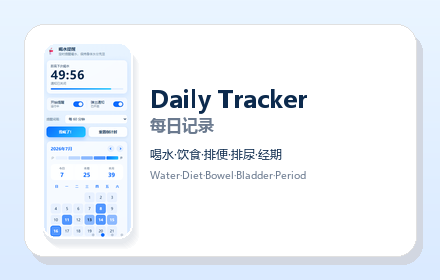
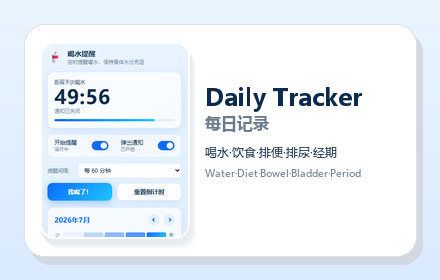
fix: render store screenshots from real captured popups; readable promo tile

Changed region(s): [[0.0886, 0.1714, 0.8273, 0.8571]]

diff --git a/scripts/generate-store-screenshots.py b/scripts/generate-store-screenshots.py
@@ -219,15 +219,19 @@ def card_bg(draw, x, y, w, h, theme, radius=14, border=True, shadow=True):
         )
 
 
-def paste_real_popup(img, x, y, page, lang, scale=0.8, radius=20):
+def paste_real_popup(img, x, y, page, lang, scale=0.8, radius=20, crop_h=None):
     """Paste a REAL captured popup screenshot (scripts/captured/popup-{page}-{lang}.png)
-    onto the canvas at (x, y), scaled, with a soft shadow and rounded corners."""
+    onto the canvas at (x, y), scaled, with a soft shadow and rounded corners.
+    crop_h: if set, only the top crop_h pixels of the source are used (keeps small
+    promo tiles readable by showing the key header/countdown region at larger scale)."""
     src = CAPTURED / f"popup-{page}-{lang}.png"
     if not src.exists():
         raise FileNotFoundError(f"Missing captured popup: {src}")
     popup = Image.open(src).convert("RGB")
-    w = round(REAL_W * scale)
-    h = round(REAL_H * scale)
+    if crop_h:
+        popup = popup.crop((0, 0, REAL_W, min(crop_h, REAL_H)))
+    w = round(popup.width * scale)
+    h = round(popup.height * scale)
     popup = popup.resize((w, h), Image.LANCZOS)
 
     # soft drop shadow on a transparent overlay, composited onto the RGB canvas
@@ -451,15 +455,17 @@ def promo_tile_440x280():
     cx, cy, cw, ch = 24, 24, 392, 232
     card_bg(draw, cx, cy, cw, ch, theme, radius=20, border=True, shadow=True)
 
-    # real popup (drink / zh) scaled to fit the card height on the left
-    paste_real_popup(img, cx + 18, cy + 18, "drink", "zh", scale=196 / REAL_H, radius=14)
+    # real popup (drink / zh) cropped to its top section and scaled up so the
+    # key header + countdown region stays readable inside this small tile
+    pop_scale = 196 / 420
+    paste_real_popup(img, cx + 16, cy + 18, "drink", "zh", scale=pop_scale, radius=14, crop_h=420)
 
     # bilingual title block on the right
-    tx = cx + 18 + 90 + 18
-    text(draw, (tx, cy + 58), "Daily Tracker", f=font(24, bold=True), fill=t["text"])
-    text(draw, (tx, cy + 90), "每日记录", f=font(16, bold=True), fill=t["muted"])
-    text(draw, (tx, cy + 122), "喝水·饮食·排便·排尿·经期", f=font(12), fill=t["text"])
-    text(draw, (tx, cy + 144), "Water·Diet·Bowel·Bladder·Period", f=font(10), fill=t["muted"])
+    tx = cx + 16 + round(320 * pop_scale) + 16
+    text(draw, (tx, cy + 56), "Daily Tracker", f=font(24, bold=True), fill=t["text"])
+    text(draw, (tx, cy + 88), "每日记录", f=font(16, bold=True), fill=t["muted"])
+    text(draw, (tx, cy + 120), "喝水·饮食·排便·排尿·经期", f=font(12), fill=t["text"])
+    text(draw, (tx, cy + 142), "Water·Diet·Bowel·Bladder·Period", f=font(10), fill=t["muted"])
 
     img.save(PROMO_OUT / "promo-tile-440x280.png")
 
